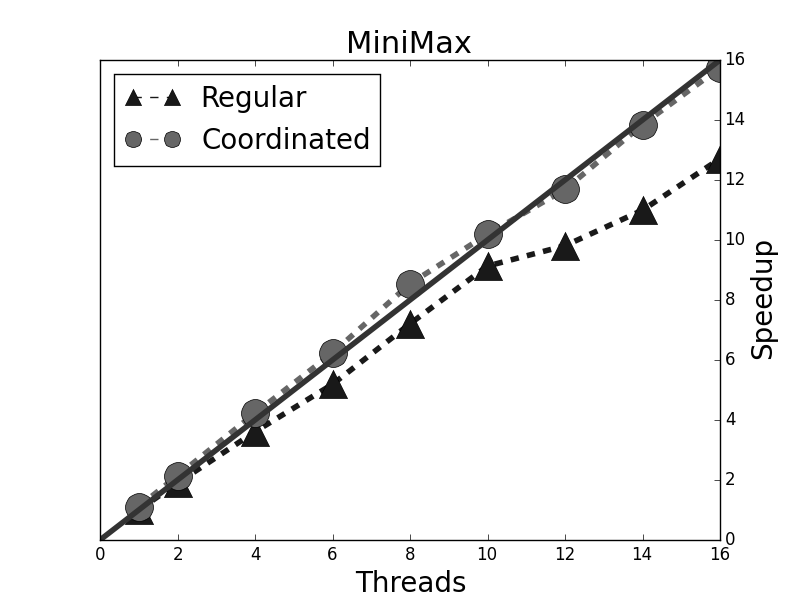
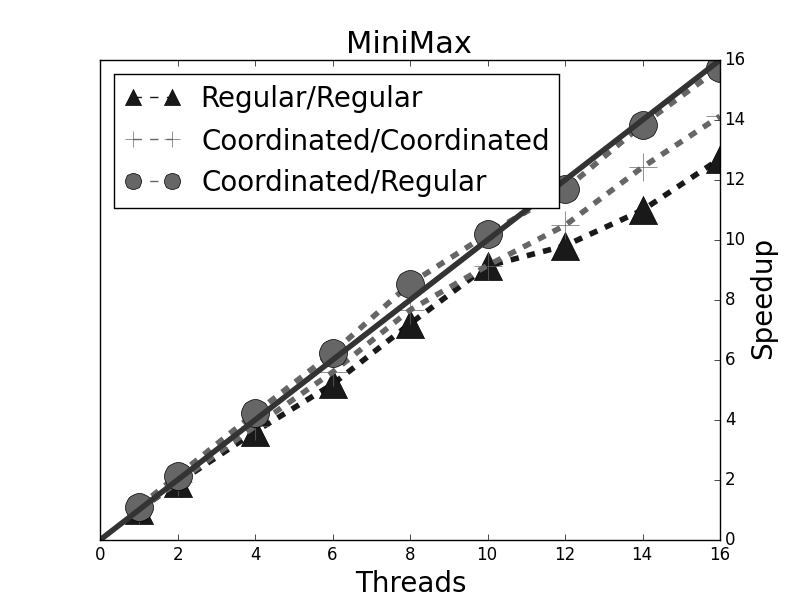
Small changes.

diff --git a/sssp.tex b/sssp.tex
@@ -56,7 +56,8 @@ derived facts when using the coordinated version \textbf{C} over the regular
 version \textbf{R}. The results also show that the cordinated
 version using 16 threads is 1.3 times faster than the regular version using 16
 threads. In turn, this makes the coordinated version 20 times faster
-than the regular version using 1 thread.
+than the regular version using 1 thread. Note that the coordinated program is as
+scalable as the regular program.
 
 \begin{figure}[h!]
    \begin{center}
@@ -77,8 +78,8 @@ than the regular version using 1 thread.
    \caption{Experimental results for the SSSP program using US powergrid network.
    On the left we show the number of facts derived for the regular \textbf{R}
    and coordinated version \textbf{C} using a variable number of threads
-   \textbf{\# T}. On the right, we have the scalability of the regular version
-   and coordinated version. The speedup values are computed using the execution
-   time of the regular version for 1 thread.}
+   \textbf{\# T}. On the right, we have the scalability of the regular and
+   coordinated version. The speedup values are computed using the execution
+   time for 1 thread.}
    \label{results:sssp_uspowergrid}
 \end{figure}

diff --git a/minimax.tex b/minimax.tex
@@ -131,6 +131,8 @@ of the coordinated MiniMax against the regular MiniMax. The coordinated version
 sees a huge reduction of memory usage, needing at most 8MB for 16 threads, while
 the regular version needs around 14GB. Note that as the number of threads goes
 up, memory usage also goes up. This is an artifact of our parallel memory
-allocator that allocates large chunks of memory before hand.
-In terms of run time, our experimental results show linear scalability for the coordinated
-version and a 20\% run time reduction when using 16 threads.
+allocator that allocates large chunks of memory beforehand.
+In terms of run time, our experimental results show a 14-fold speedup for the
+coordinated version against a 12-fold for the regular version when using 16
+threads. When comparing the two versions directly, there is a 20\% run time
+reduction when using 16 threads in the coordinated version.

diff --git a/heat-transfer.tex b/heat-transfer.tex
@@ -55,8 +55,8 @@ for 16 threads, there's a 18\% reduction.
    \begin{center}
       \subfloat[]{\includegraphics[width=5cm]{results/new-heat-transfer-80}}
    \end{center}
-   \caption{Experimental results for the HT program. Speedup values for the
-      coordinated and uncoordinated version are computed using the run time of
-      the uncoordinated version using 1 thread.}
+   \caption{Experimental results for the HT program. The coordinated version
+      is, on average, 30\% faster than the regular version although it has a
+      slightly worse scalability due to a reduction in work available.}
    \label{results:ht}
 \end{figure}

diff --git a/language.tex b/language.tex
@@ -1,4 +1,3 @@
-
 Linear Meld (LM) is a forward-chaining linear logic programming
 language~\cite{cruz-iclp14} with roots on Datalog~\cite{Ramakrishnan93asurvey}.
 Programs consist of a set of \emph{rules} and a \emph{database of facts}.
@@ -121,4 +120,3 @@ Fig.~\ref{fig:shortest_path_program}~(c) is achieved.
 %We view the set of nodes as a graph data structure where workers will perform work.
 %A worker is able to process any node, although a node cannot be computed by more than one worker
 %at the same time. This disallows the manipulation of a node by multiple workers.
-
